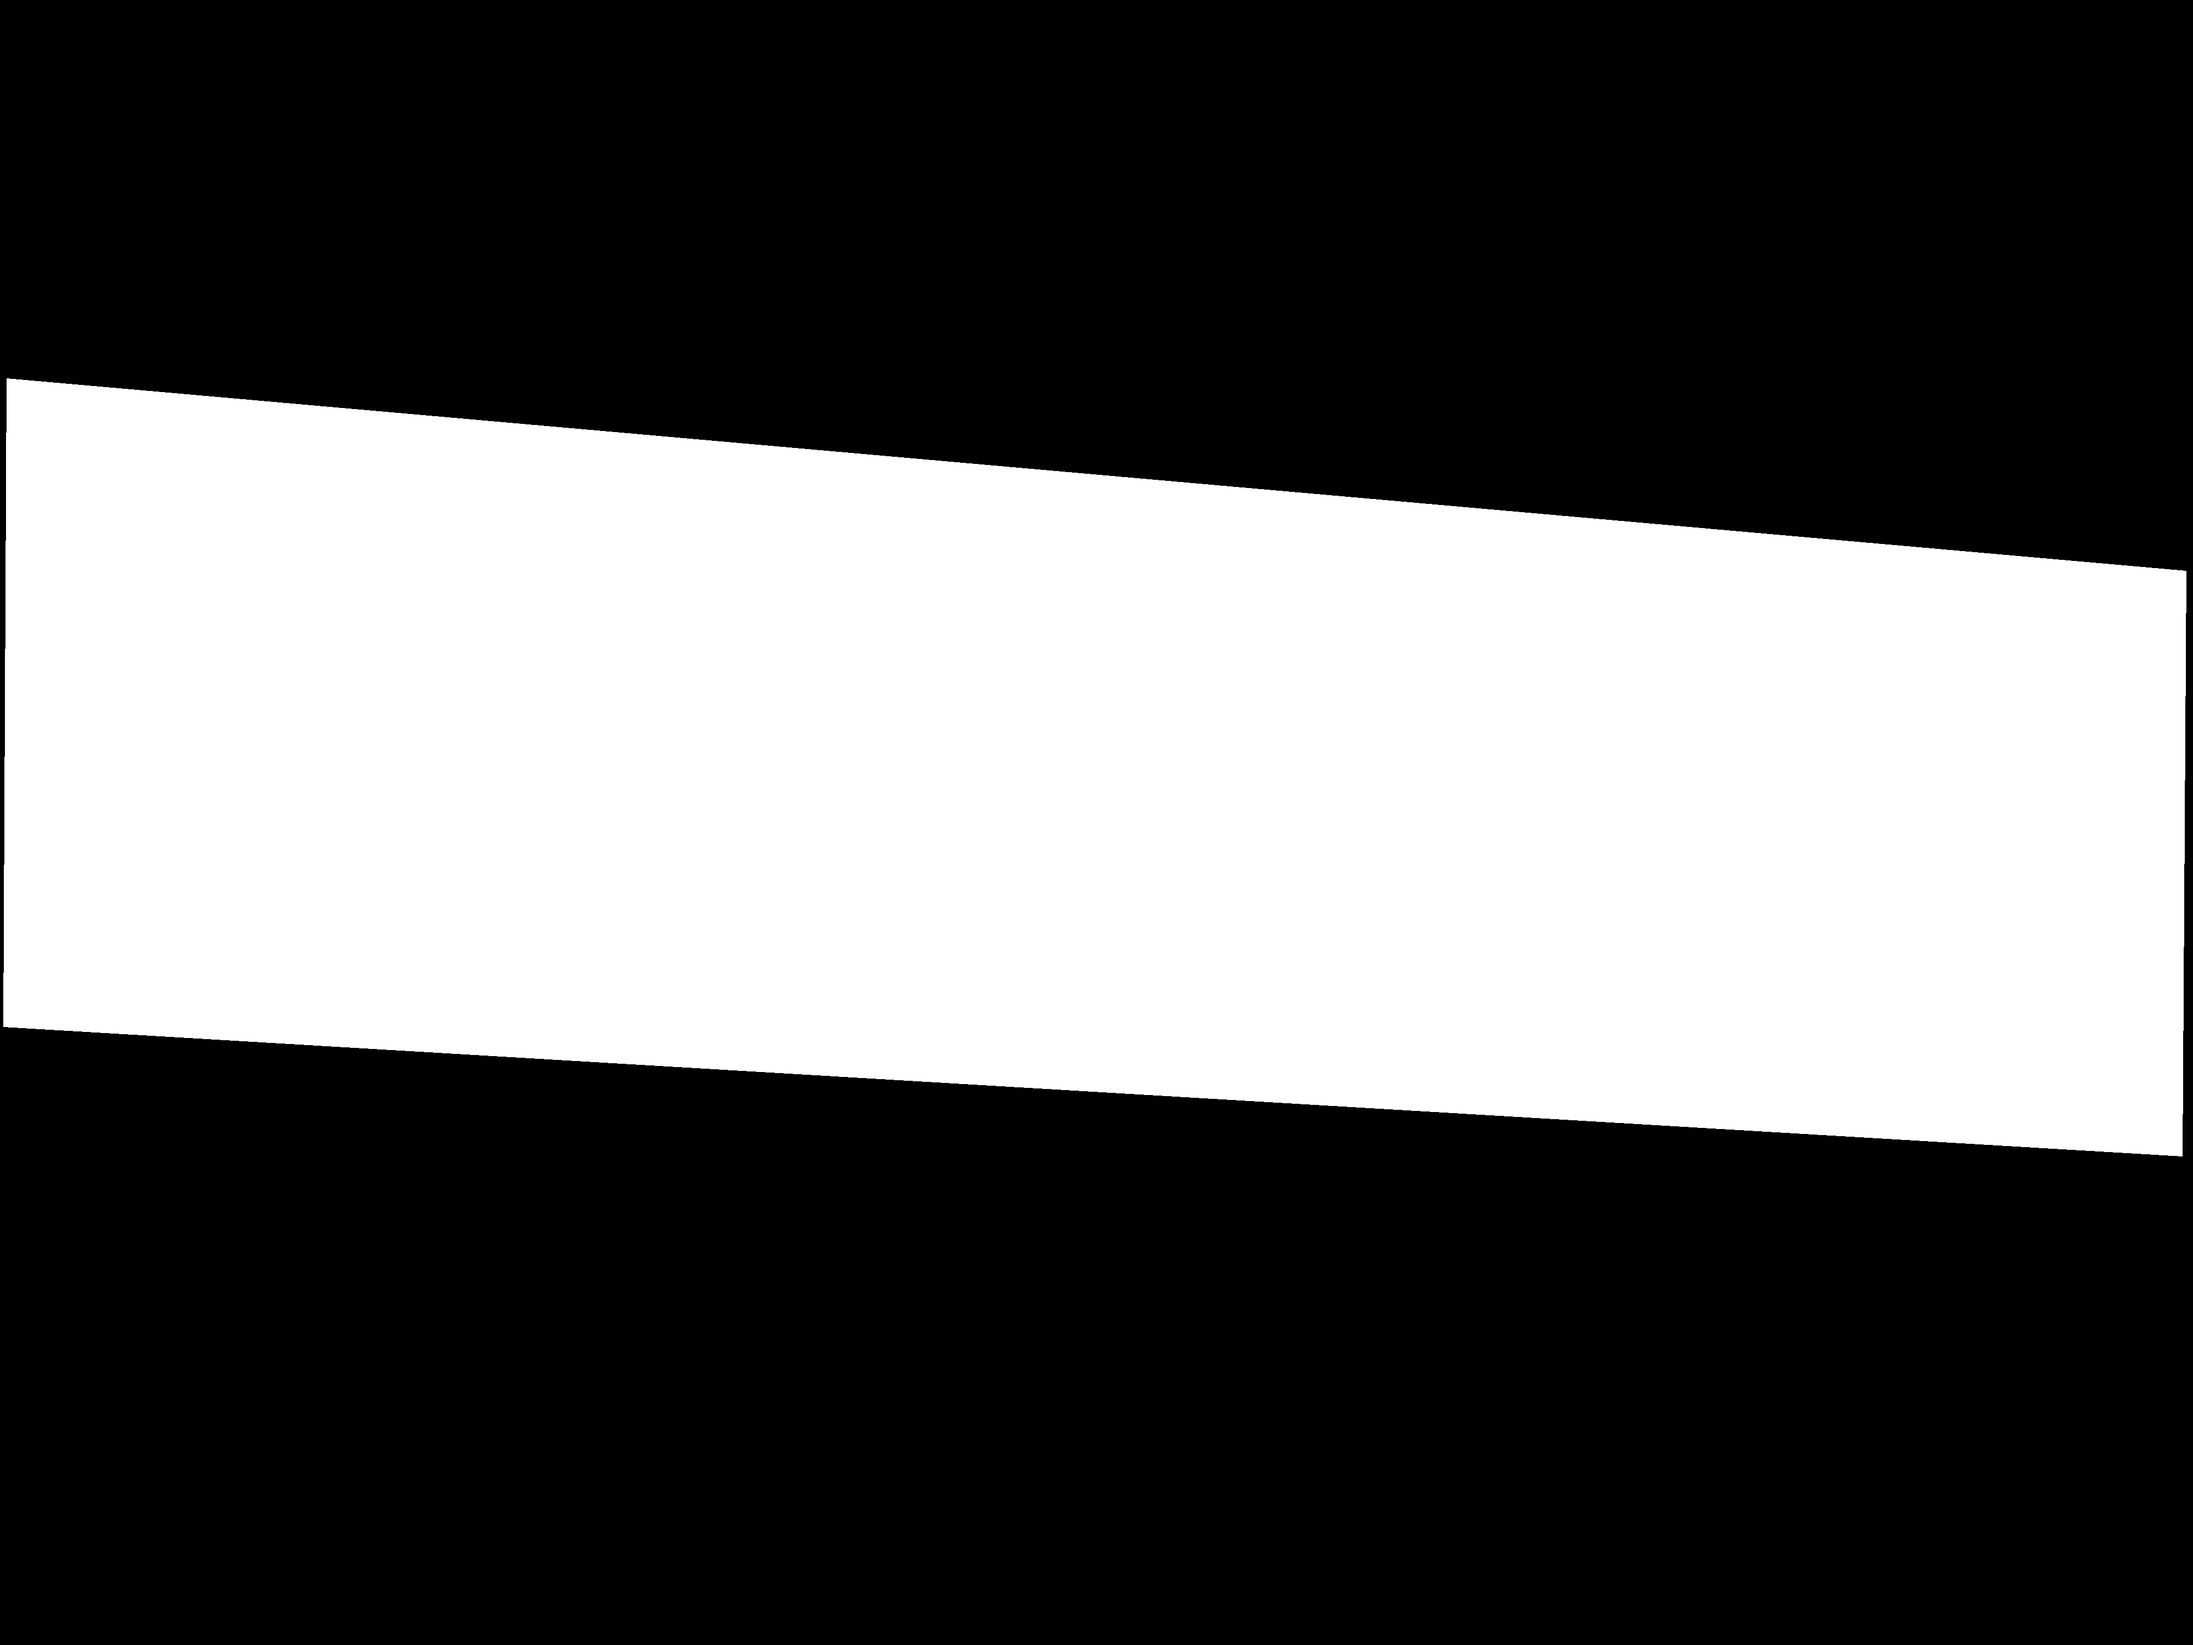
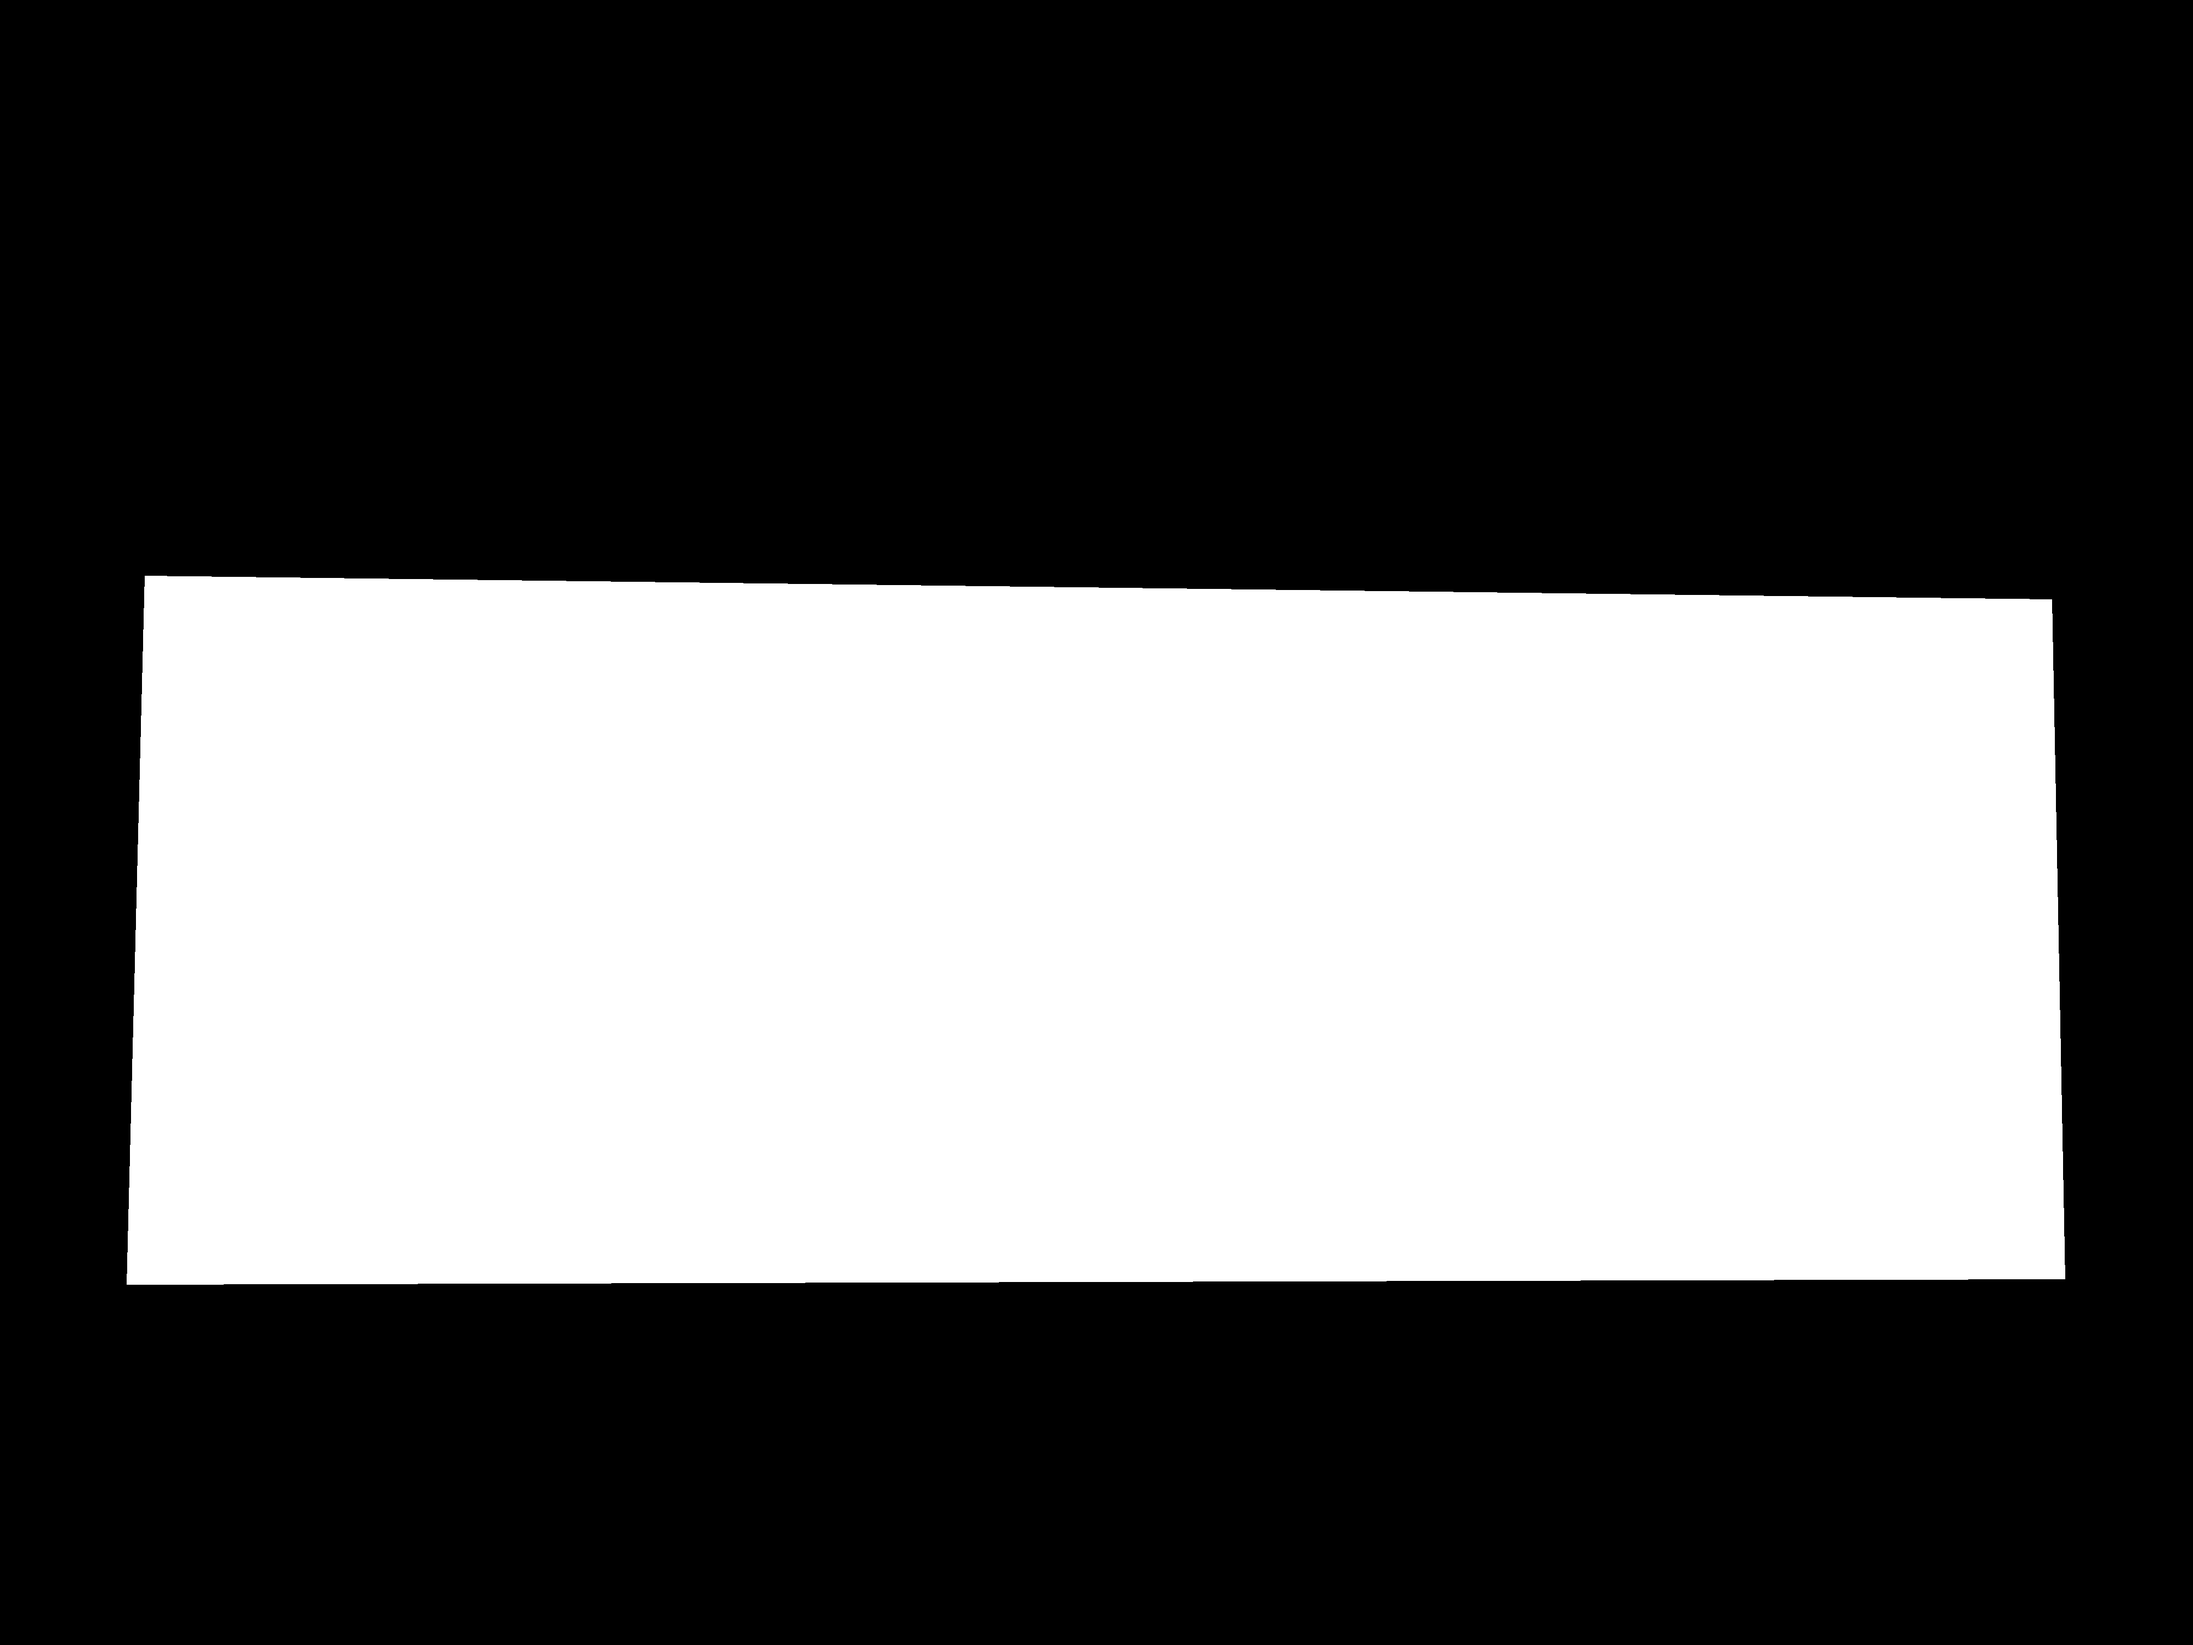
Update ROI masks

Changed region(s): [[0.0, 0.217, 1.0, 0.806]]

diff --git a/roi_masks/create_roi_mask.py b/roi_masks/create_roi_mask.py
@@ -1,0 +1,38 @@
+import json
+import numpy as np
+import cv2
+
+# 1. Load the Label Studio JSON export
+# (Update the filename to match your exported file)
+json_file = r'roi_masks\top_view_roi_mask.json'
+
+with open(json_file, 'r') as f:
+    data = json.load(f)[0] # Get the first (and only) annotated image
+
+# 2. Extract the annotation data
+# Navigate through the JSON structure to find the polygon
+result = data['annotations'][0]['result'][0]
+original_width = result['original_width']
+original_height = result['original_height']
+points_percentage = result['value']['points']
+
+# 3. Convert percentage coordinates to absolute pixel coordinates
+points_absolute = []
+for x_pct, y_pct in points_percentage:
+    # Convert from percentage (e.g., 50.5) to actual pixel (e.g., 960)
+    x = int((x_pct / 100.0) * original_width)
+    y = int((y_pct / 100.0) * original_height)
+    points_absolute.append([x, y])
+
+# Convert the list to a NumPy array for OpenCV
+points_array = np.array([points_absolute], dtype=np.int32)
+
+# 4. Create the blank mask and draw the polygon
+# Create a black background (zeros)
+mask = np.zeros((original_height, original_width), dtype=np.uint8)
+
+# Fill the polygon with white (255)
+cv2.fillPoly(mask, points_array, 255)
+
+# 5. Save the final mask
+cv2.imwrite('top_view_roi_mask.png', mask)
